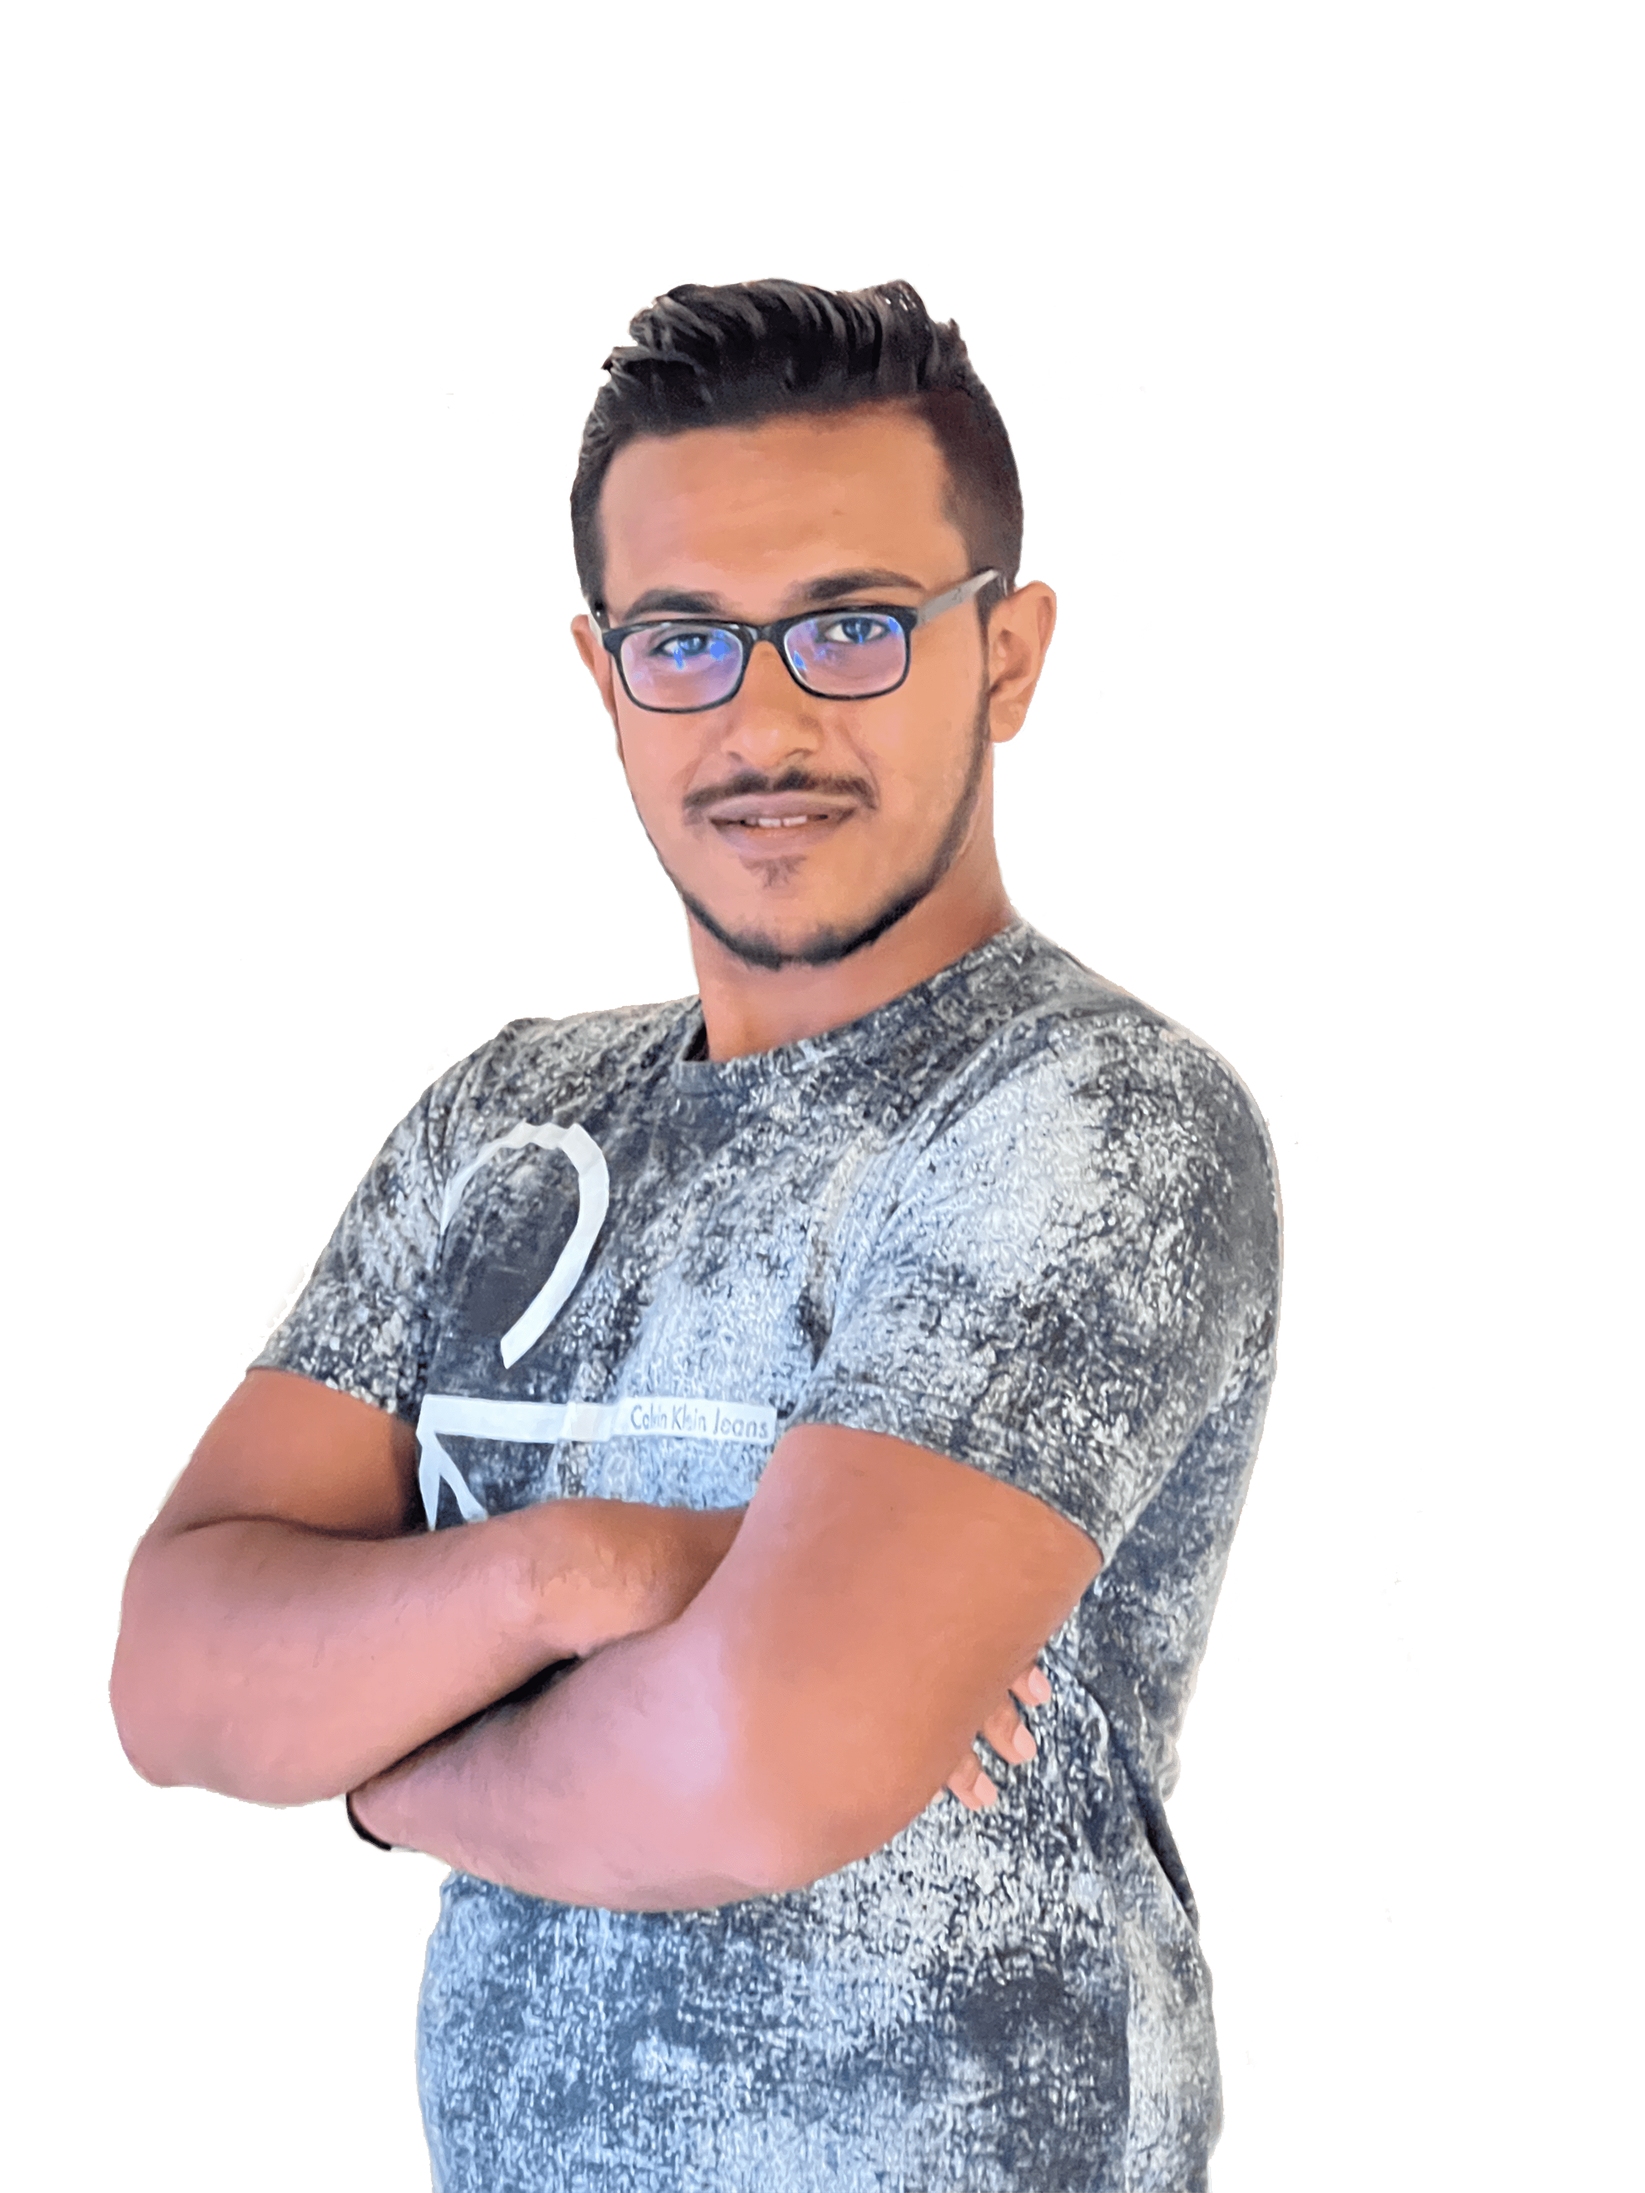
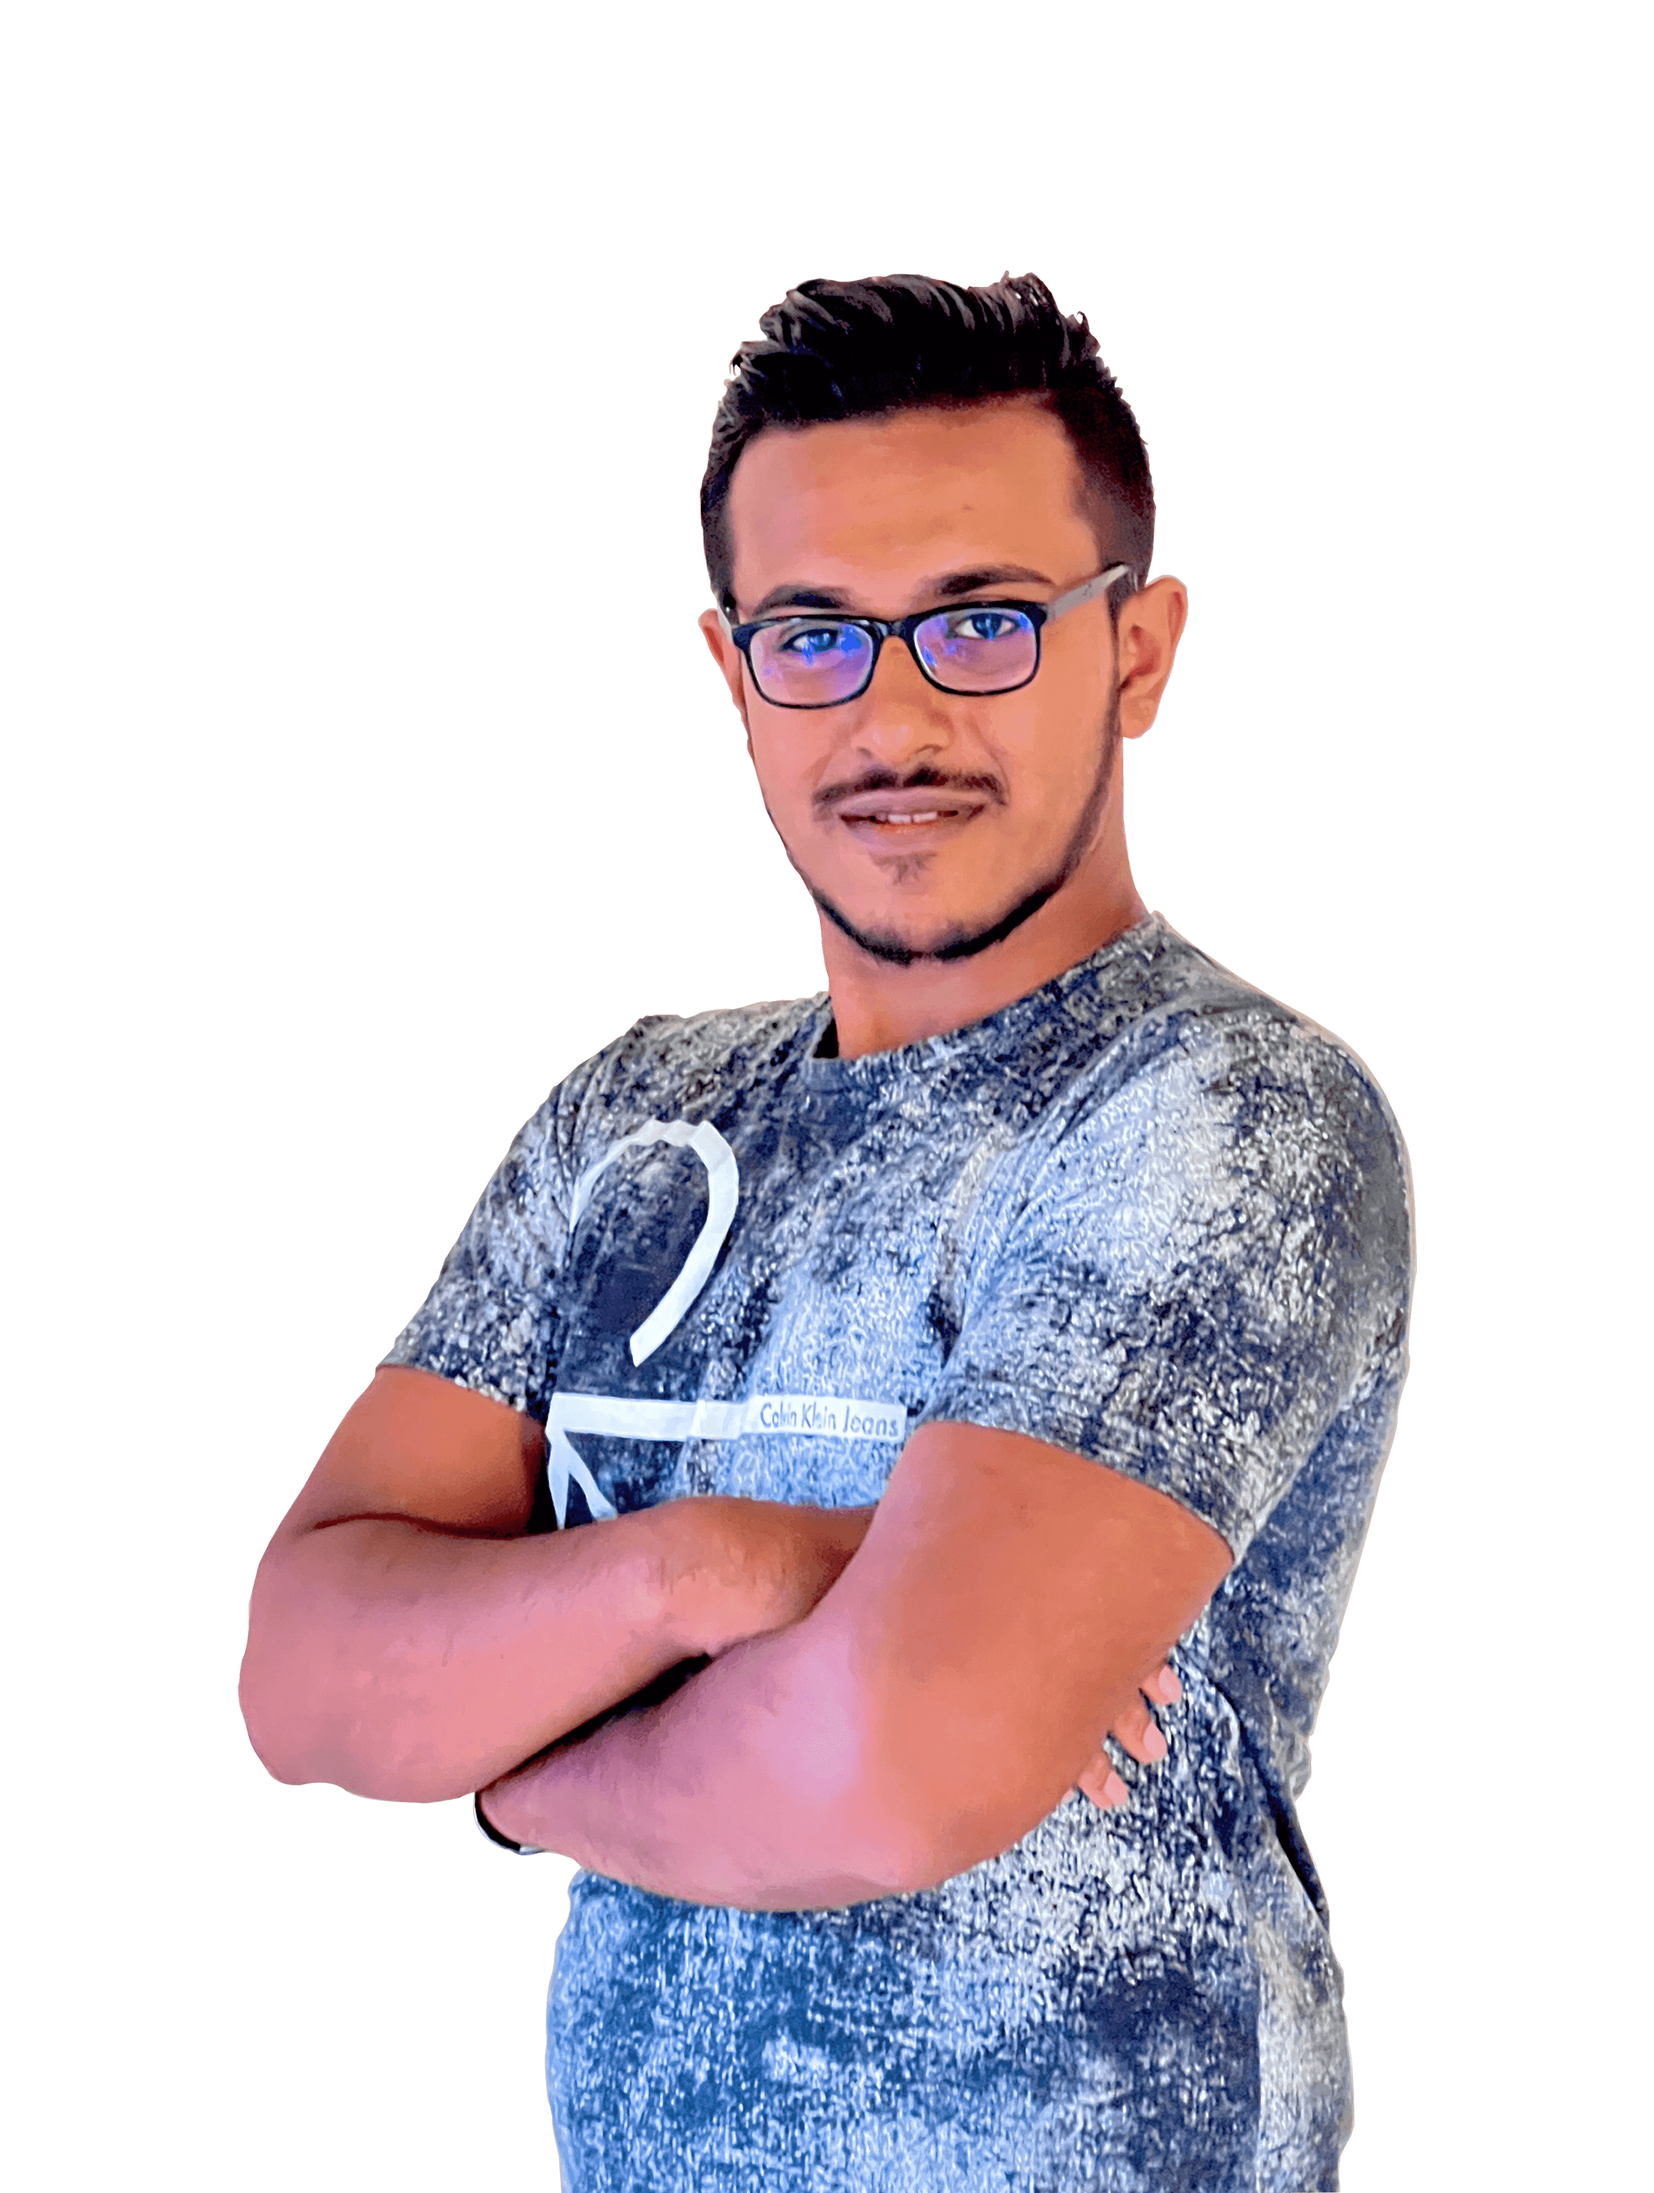
Loader Design Update

diff --git a/src/App.jsx b/src/App.jsx
@@ -36,13 +36,21 @@ function App() {
       {
         loading ?
 
-        //Profile Picture
-          <div style={{ height: '100vh', overflowY: 'hidden' }}>
+          //Profile Picture
+          <div style={{ height: '100vh', overflowY: 'hidden', display: 'flex', flexDirection: 'column', justifyContent: 'center', alignItems: 'center' }}>
             <motion.div
               className="box"
               animate={{
                 scale: [1, 1.02, 1.02, 1, 1],
+                boxShadow: [
+                  `0 0 18.2rem #fff,0 0 .2rem #fff,0 0 2rem #4db5ff,0 0 0.8rem #5fb7f6,0 0 2.8rem #71b8eb,inset 0 0 1.3rem #89c0e8 `,
+                  `0 0 14.2rem #fff,0 0 .2rem #fff,0 0 2rem #4db5ff,0 0 0.8rem #5fb7f6,0 0 2.8rem #71b8eb,inset 0 0 1.3rem #89c0e8 `,
+                  `0 0 12.2rem #fff,0 0 .2rem #fff,0 0 2rem #4db5ff,0 0 0.8rem #5fb7f6,0 0 2.8rem #71b8eb,inset 0 0 1.3rem #89c0e8 `,
+                  `0 0 10.2rem #fff,0 0 .2rem #fff,0 0 2rem #4db5ff,0 0 0.8rem #5fb7f6,0 0 2.8rem #71b8eb,inset 0 0 1.3rem #89c0e8 `,
+                  `0 0 8.2rem #fff,0 0 .2rem #fff,0 0 2rem #4db5ff,0 0 0.8rem #5fb7f6,0 0 2.8rem #71b8eb,inset 0 0 1.3rem #89c0e8 `
+                ],
               }}
+
               transition={{
                 duration: 1,
                 ease: "easeInOut",
@@ -55,6 +63,7 @@ function App() {
               </div>
 
             </motion.div>
+            <br />
 
             {/* Basic Information */}
             <div className='loader-info'>

diff --git a/src/index.css b/src/index.css
@@ -168,10 +168,10 @@ img{
   width: 25rem;
   height: 25rem;
   position: relative;
-  left: calc(50% - 13rem);
   margin-top: 4rem;
   border-radius: 15rem;
   overflow: hidden;
+  
 }
 
 .loader-info{
@@ -179,4 +179,14 @@ img{
   flex-direction: column;
   justify-content: center;
   align-items: center;
+}
+
+
+/* ======================== MEDIA QUERIES (SMALL DEVICES) ================ */
+@media screen and (max-width:600px){
+ 
+  .box {
+    width: 20rem;
+    height: 20rem;
+  }
 }

diff --git a/src/components/Header/Header.jsx b/src/components/Header/Header.jsx
@@ -1,7 +1,7 @@
 import React from 'react'
 import './header.css'
 import CTA from './CTA'
-import ME from '../../assets/me.png'
+import ME from '../../assets/unnamed.png'
 import HeaderSocials from './HeaderSocials'
 
 const Header = () => {
